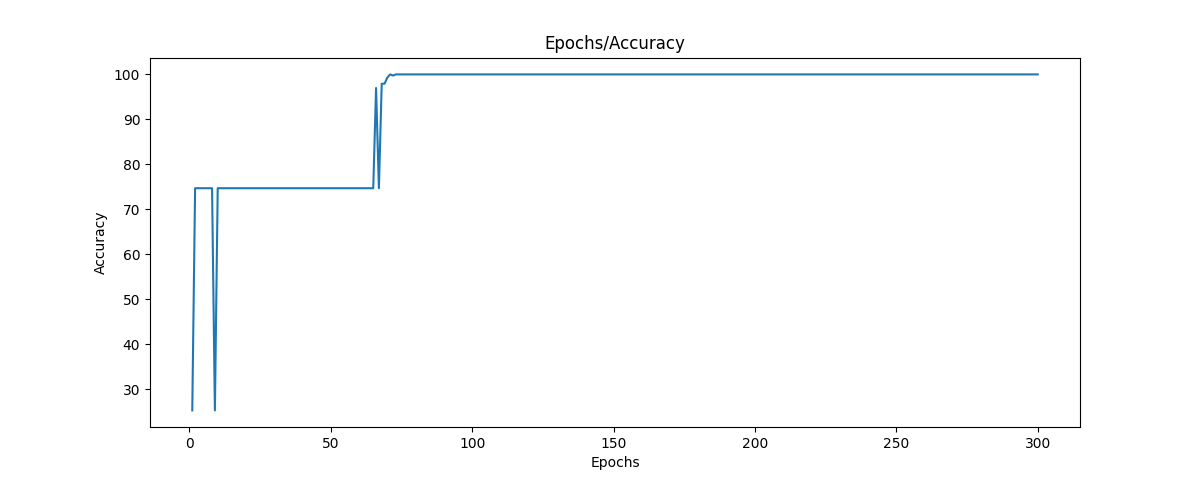
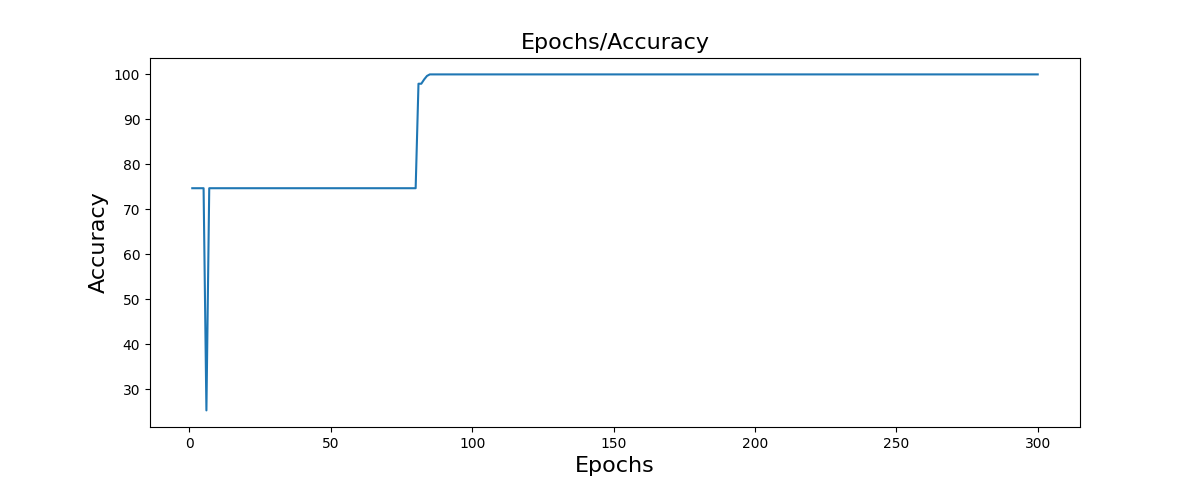
add new plots

diff --git a/make_plot.py b/make_plot.py
@@ -5,6 +5,7 @@ from model import MLP
 from data_loader import load_data
 
 if __name__ == "__main__":
+    fz = 16  # fontzied
     net = MLP(mode="rand", sizes=[469,40,40,20,20,2])
     td = load_data("training")
     t_data = load_data("test")
@@ -14,18 +15,18 @@ if __name__ == "__main__":
     t = np.linspace(1,e,e)
     plt.figure().set_figwidth(12)
     plt.plot(t,[net.losses_and_evaluates_list[i][1] * 100 for i in range(e)])
-    plt.title("Epochs/Accuracy")
-    plt.xlabel("Epochs")
-    plt.ylabel("Accuracy")
+    plt.title("Epochs/Accuracy",fontsize=fz)
+    plt.xlabel("Epochs",fontsize=fz)
+    plt.ylabel("Accuracy",fontsize=fz)
     plt.savefig("D:\\Equipment-fault-detection-1dcnn-main\\epochs_accurate.png")
     plt.clf()
     plt.close()
 
     plt.figure().set_figwidth(12)
     plt.plot(t,[net.losses_and_evaluates_list[i][0]  for i in range(e)])
-    plt.title("Epochs/Loss")
-    plt.xlabel("Epochs")
-    plt.ylabel("Loss")
+    plt.title("Epochs/Loss",fontsize=fz)
+    plt.xlabel("Epochs",fontsize=fz)
+    plt.ylabel("Loss",fontsize=fz)
     plt.savefig("D:\\Equipment-fault-detection-1dcnn-main\\epochs_loss.png")
     plt.clf()
     plt.close()
